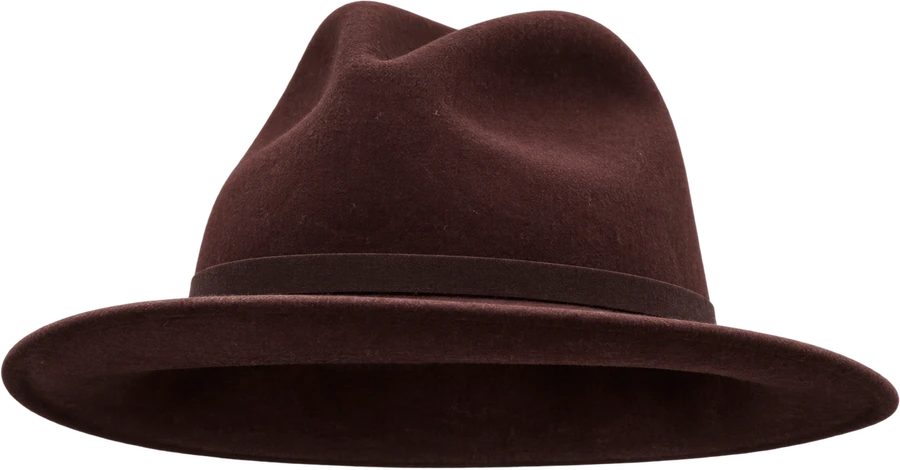
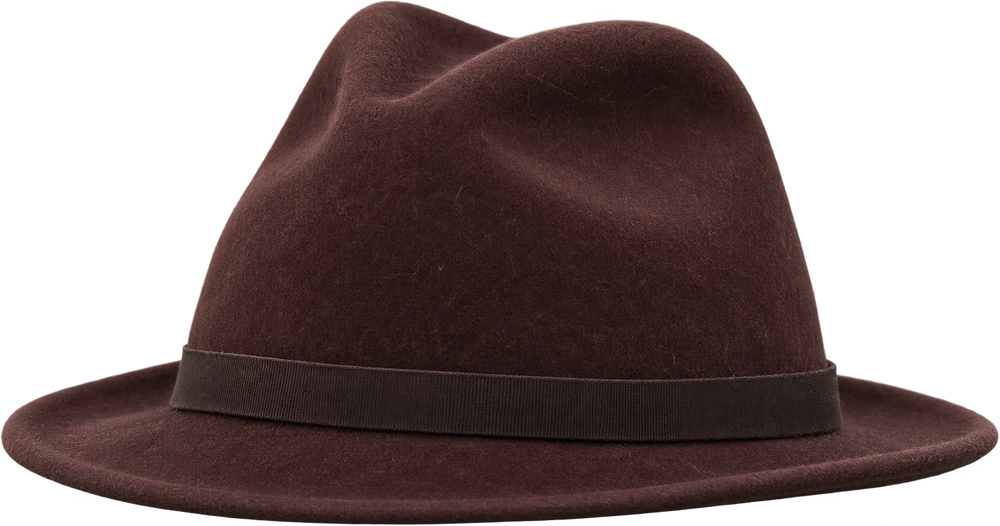
Refit detachable hat to portrait perspective and lighting

Changed region(s): [[0.0, 0.0, 1.0, 1.0], [0.28, 0.6851, 0.4978, 0.7149], [0.3733, 0.5362, 0.4044, 0.566]]

diff --git a/businesses/new/founders.module.css b/businesses/new/founders.module.css
@@ -65,11 +65,26 @@
 
 .hat {
     position: absolute;
-    left: 27.78%;
-    top: -6.67%;
-    width: 48.15%;
+    left: 30.09%;
+    top: -5.90%;
+    width: 41.67%;
     max-width: none;
     height: auto;
+    transform: rotate(-3deg) scaleX(-1);
+    transform-origin: 50% 80%;
+}
+
+/* The removable brim casts a soft contact shadow, without changing the portrait. */
+.hatShadow {
+    position: absolute;
+    left: 39.35%;
+    top: 9.03%;
+    width: 25.93%;
+    height: 4.86%;
+    border-radius: 50%;
+    background: radial-gradient(ellipse at 50% 0%, rgb(31 20 18 / 28%), rgb(31 20 18 / 11%) 42%, transparent 75%);
+    mix-blend-mode: multiply;
+    transform: rotate(2deg);
 }
 
 .content {

diff --git a/businesses/new/Founders.tsx b/businesses/new/Founders.tsx
@@ -52,6 +52,7 @@ export function Founders({ compact = false, showPavolHat = true }: { compact?: b
                         </div>
                         {index === 1 && showPavolHat && (
                             <div className={s.accessoryFrame} aria-hidden="true">
+                                <span className={s.hatShadow} />
                                 <Image className={s.hat} src={pavolHat} alt="" sizes="140px" draggable={false} />
                             </div>
                         )}

diff --git a/businesses/new/AGENTS.md b/businesses/new/AGENTS.md
@@ -32,6 +32,8 @@ Keep specs, focused tests and public behavior aligned. Never submit test leads t
 
 The subsequent 11 November hat revision keeps Pavol's approved portrait, changing only the alpha around the loose hair tuft behind his left ear. `pavol-hejny-studio-neat.webp` preserves the original face, clothing and pose; retain the original source file. His dark burgundy-brown felt hat is the independent transparent `pavol-hejny-hat.webp`, positioned in a separate image layer relative to the portrait's intrinsic coordinates. It must scale with the portrait at every breakpoint and remain removable with `showPavolHat={false}`. Never bake the hat into the portrait or regenerate Jiří.
 
+The later hat correction replaces the original low-angle cutout with a reconstructed eye-level hat matched to the portrait's perspective and neutral light. Its smaller brim, slight head-aligned tilt and soft CSS contact shadow are registered to the same 1080 × 1440 frame. The accessory and shadow disappear together; both underlying portraits remain byte-for-byte unchanged.
+
 The launch site is bilingual: Czech under `/cs`, English under `/en`, with identical suffixes. Keep localized navigation, canonical/alternate metadata, forms, demo copy and PDF aligned. Do not change stored calculator units or query semantics to switch currencies. Czech public offers show Kč and English offers USD. The internal display conversion remains in `commercialTerms.ts`; do not expose it as pricing copy. Palette follows the original blue logo and black wordmark. Each comparison detail retains its own actual source review date.
 
 The latest evening revision on 25 October 2026 replaces the simple hero fade with a restrained staggered reveal of its second line. The three ownership phrases arrive separately with pauses; the explanatory paragraph types character by character. Reserve layout and expose complete accessible text, with immediate static reduced-motion text. The installation link is smaller than the CTA with continuous text underline and an un-underlined external-arrow gap. Do not show the redundant “No commitment. We’ll get in touch…” line below the CTA. The current Start offer supersedes the October price: 399 Kč in Czech and $19 in English, both monthly. Stored calculator units and explicit shared calculations stay intact; the default preset and first option are now social media. The calculator remains one elevated navy surface. On mobile Jiří’s name and role align right like his already bottom-right contact block. Preserve both cutout portraits and the lower story link, with verified 2023–2026 milestones starting at WebGPT.

diff --git a/specs/new-pages-quality.md b/specs/new-pages-quality.md
@@ -10,6 +10,8 @@ Veřejné cesty mají jeden zdroj. České `/cs` routy sdílejí implementaci ko
 
 Navazující zadání z 11. listopadu zachovává Pavolův schválený portrét a odstraňuje pouze vyčnívající pramen za uchem vlevo na obrázku. Odvozený `pavol-hejny-studio-neat.webp` mění v tomto místě jen průhlednost; obličej, oblečení a postoj jsou původní. Tmavě vínově hnědý plstěný klobouk podle dodané fotografie je samostatný průhledný `pavol-hejny-hat.webp`, vykreslený druhým obrázkem. Poloha i měřítko vycházejí ze společného rámce portrétu na mobilu i počítači. `showPavolHat={false}` klobouk odstraní bez výměny portrétu. Původní zdrojový portrét a Jiřího fotografie zůstávají zachované.
 
+Pozdější oprava nahrazuje původní výřez klobouku foceného zespodu nově vytvořeným kloboukem pro perspektivu téměř v úrovni očí. Má menší krempu, mírný náklon podle hlavy a světlo sladěné s portrétem. Jemný kontaktní stín je samostatná CSS vrstva; mizí spolu s kloboukem. Obě fotografie zůstávají beze změny obrazových dat.
+
 Zadání z 11. listopadu 2026 odstraňuje „Náš příběh“ / „Our story“ z hlavního i mobilního menu. Stránka příběhu, odkaz v patičce a odkaz pod zakladateli zůstávají dostupné. České menu má pouze „Komunita“ s přímým odkazem na `/cs/komunity/promptbook`, bez mezikroku přes rozcestník komunit.
 
 Hlavní i partnerská landing page mají stejný světlý vizuální jazyk: téměř bílé pozadí, černý text, modrá původního loga (`#000080`), Outfit pro nadpisy a Inter pro text. Hlavička i patička obsahují původní symbol a slovo `promptbook` bez tečky; `prompt` je černě a `book` modře. Hero nadpisy nemají závěrečné tečky. Otevřené kompozice a jemně tónované pásy neskládají stránku do řady tmavých krabic. Prostorové objekty mají tenké světlé hrany, měkké stíny a jemnou paralaxu, bez tvrdých extruzí. Technické podrobnosti nepřebírají hero.
